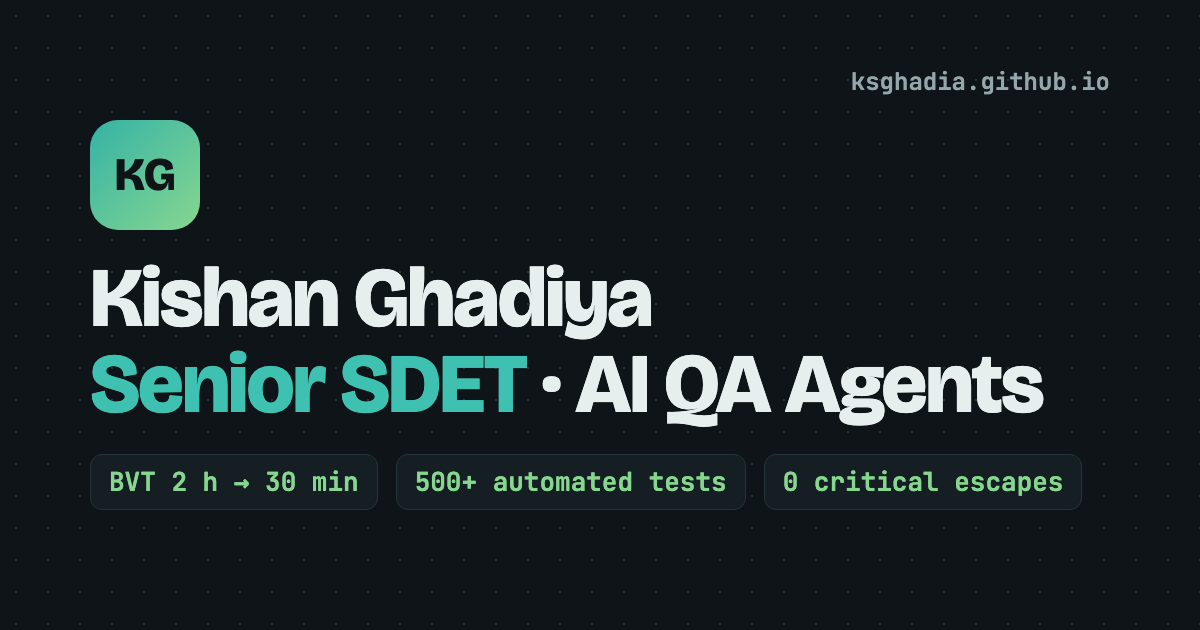
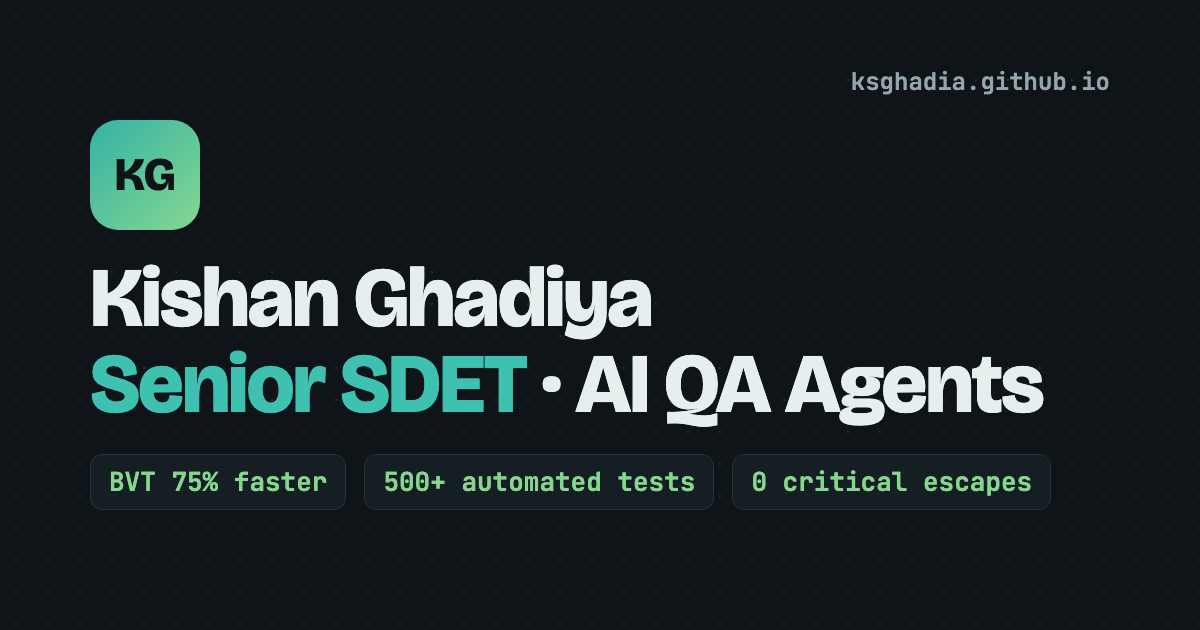
BVT shown as 75% faster (no hours)

Changed region(s): [[0.1542, 0.7238, 0.8942, 0.7841]]

diff --git a/index.html b/index.html
@@ -466,7 +466,7 @@ footer { color: var(--muted); font-size: 0.85rem; text-align: center; }
       <div class="run-body">
         <div class="cmd">$ <b>qa run</b> --profile kishan-ghadiya</div>
         <div id="run-lines">
-          <div class="tl"><span class="st">✓</span><span class="nm">build verification time</span><span class="val">2h → 30m</span></div>
+          <div class="tl"><span class="st">✓</span><span class="nm">build verification time</span><span class="val">75% faster</span></div>
           <div class="tl"><span class="st">✓</span><span class="nm">automated tests built</span><span class="val">500+</span></div>
           <div class="tl"><span class="st">✓</span><span class="nm">xray test cases owned</span><span class="val">3000+</span></div>
           <div class="tl"><span class="st">✓</span><span class="nm">test execution cycles</span><span class="val">~300</span></div>
@@ -503,7 +503,7 @@ footer { color: var(--muted); font-size: 0.85rem; text-align: center; }
   <section id="impact" class="reveal" aria-labelledby="impact-h">
     <div class="sec-head"><span class="label">Impact</span><h2 id="impact-h">The numbers</h2></div>
     <div class="stats">
-      <div class="stat"><b><s>2 h</s>30 min</b><span>Build verification per build, with AI agents</span></div>
+      <div class="stat"><b data-count="75" data-suffix="%">75%</b><span>Faster build verification, with AI agents</span></div>
       <div class="stat"><b data-count="500" data-suffix="+">500+</b><span>Automated test cases built</span></div>
       <div class="stat"><b>0</b><span>Critical escapes across 10 Ei Mira releases</span></div>
       <div class="stat"><b data-count="3000" data-suffix="+">3000+</b><span>Xray test cases owned</span></div>
@@ -518,10 +518,10 @@ footer { color: var(--muted); font-size: 0.85rem; text-align: center; }
       <article class="case">
         <div class="case-top"><span class="case-icon" aria-hidden="true"><svg viewBox="0 0 24 24"><path d="M13 2L4 14h7l-1 8 9-12h-7z"/></svg></span><h3>AI-driven build verification</h3></div>
         <p>Automated build verification testing with AI agents that run the checks and report results.</p>
-        <div class="viz" aria-label="Build verification time: 2 hours before, 30 minutes after">
+        <div class="viz" aria-label="Build verification time: 75% lower with AI agents">
           <div class="ba">
-            <span>before</span><div class="track"><div class="fill before"></div></div><span class="v">2 h</span>
-            <span>after</span><div class="track"><div class="fill after"></div></div><span class="v">30 min</span>
+            <span>before</span><div class="track"><div class="fill before"></div></div><span class="v">100%</span>
+            <span>after</span><div class="track"><div class="fill after"></div></div><span class="v">25%</span>
           </div>
           <span class="callout">75% faster per build</span>
         </div>
@@ -681,7 +681,7 @@ footer { color: var(--muted); font-size: 0.85rem; text-align: center; }
           <div class="role-meta"><span>Jul 2026 – Present</span><span class="dur" data-start="2026-07">4 mos</span><span class="live"><i></i>Current</span></div>
         </div>
         <ul class="wins">
-          <li>AI build verification, 2 h → 30 min per build; AI roughly halved routine QA effort.</li>
+          <li>AI build verification 75% faster per build; AI roughly halved routine QA effort.</li>
           <li>Acting QA lead for Mindspark 4.0; mentoring 5 QA engineers.</li>
           <li>Built the team's AI QA agents for web and Android.</li>
           <li>10 Ei Mira releases with zero critical escapes.</li>
@@ -833,13 +833,13 @@ footer { color: var(--muted); font-size: 0.85rem; text-align: center; }
     { id: 'ai', chip: 'AI agents', q: 'What AI QA agents have you built?', next: ['bvt', 'projects'],
       keys: ['ai', 'agent', 'agents', 'llm', 'claude', 'mcp', 'bot', 'automation ai', 'verifier', 'adb'],
       a: '<p>I build QA agents on Claude and MCP that the team uses day to day:</p><ul>' +
-         '<li><b>Build verification</b> with AI agents: from about 2 hours to 30 minutes per build.</li>' +
+         '<li><b>Build verification</b> with AI agents: 75% faster per build.</li>' +
          '<li>A <b>Jira bug verifier</b> that checks a fix is ready to test and posts evidence back to the ticket.</li>' +
          '<li>A <b>spec-driven web-app tester</b> with Playwright replays, read only database checks and live Xray updates.</li>' +
          '<li><b>Android verification over adb</b>, backed by a regression suite of 44 tests.</li></ul>' },
     { id: 'bvt', chip: 'Build verification', q: 'How did you speed up build verification?', next: ['ai', 'numbers'],
       keys: ['bvt', 'build', 'verification', 'smoke', 'faster', 'speed', 'time', 'hours', 'minutes'],
-      a: '<p>Build verification testing used to take about <b>2 hours</b> per build. I automated it with AI agents that run the checks and report the results, and it now takes <b>30 minutes</b>, a 75% cut.</p><p>The same agents and skills roughly <b>halved routine QA effort</b> across test-case design, bug-fix verification and root-cause analysis.</p>' },
+      a: '<p>I automated build verification testing with AI agents that run the checks and report the results, making it <b>75% faster</b> per build.</p><p>The same agents and skills roughly <b>halved routine QA effort</b> across test-case design, bug-fix verification and root-cause analysis.</p>' },
     { id: 'release', chip: 'Release quality', q: 'How do you handle release quality?', next: ['rca', 'numbers'],
       keys: ['release', 'releases', 'mira', 'production', 'escape', 'escapes', 'defect', 'defects', 'bug', 'bugs', 'quality', 'android', 'play store', 'apk'],
       a: '<p>From April to September 2026 I owned end-to-end QA for <b>10 Ei Mira Android releases</b>: staging and production regression, plus Play Store APK sanity.</p><ul>' +
@@ -886,7 +886,7 @@ footer { color: var(--muted); font-size: 0.85rem; text-align: center; }
       keys: ['numbers', 'metrics', 'stats', 'how many', 'count', 'test cases', 'executions', 'cycles'],
       a: '<ul><li><b>3000+</b> Xray test cases owned</li><li><b>~300</b> test execution cycles run</li>' +
          '<li><b>~1500</b> defects logged with root-cause analysis</li><li><b>500+</b> automated test cases built</li>' +
-         '<li><b>2 h → 30 min</b> build verification</li></ul>' },
+         '<li><b>75% faster</b> build verification</li></ul>' },
     { id: 'fit', chip: 'Job fit', q: 'Why are you a fit for a Senior SDET role?', next: ['projects', 'contact'],
       keys: ['fit', 'hire', 'why', 'senior sdet', 'sdet', 'strength', 'strengths', 'value'],
       a: '<ul><li><b>Automation:</b> 500+ automated tests across UI and API, Cypress and Playwright.</li>' +
